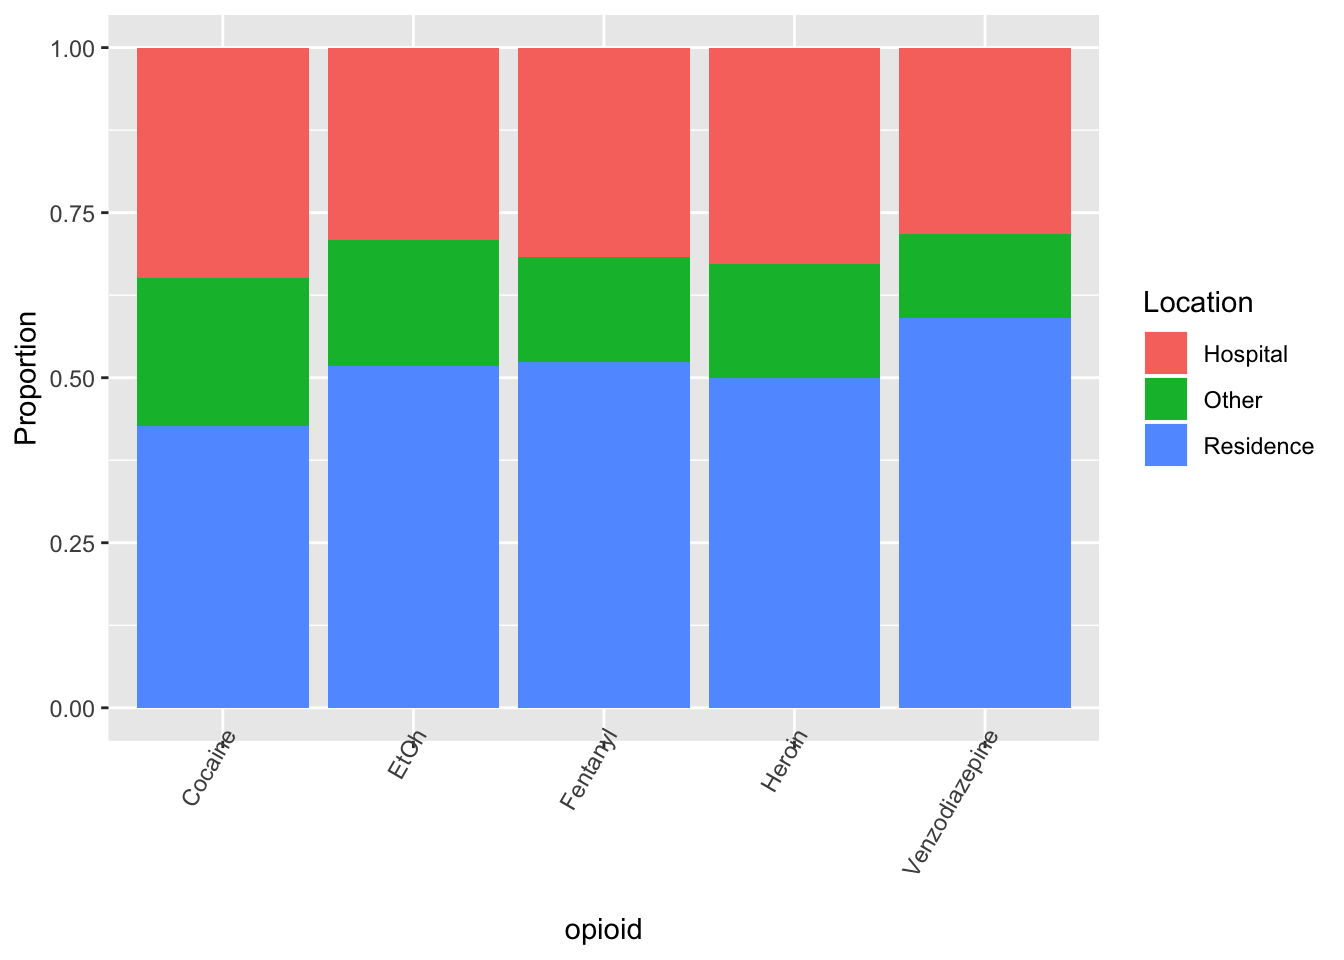
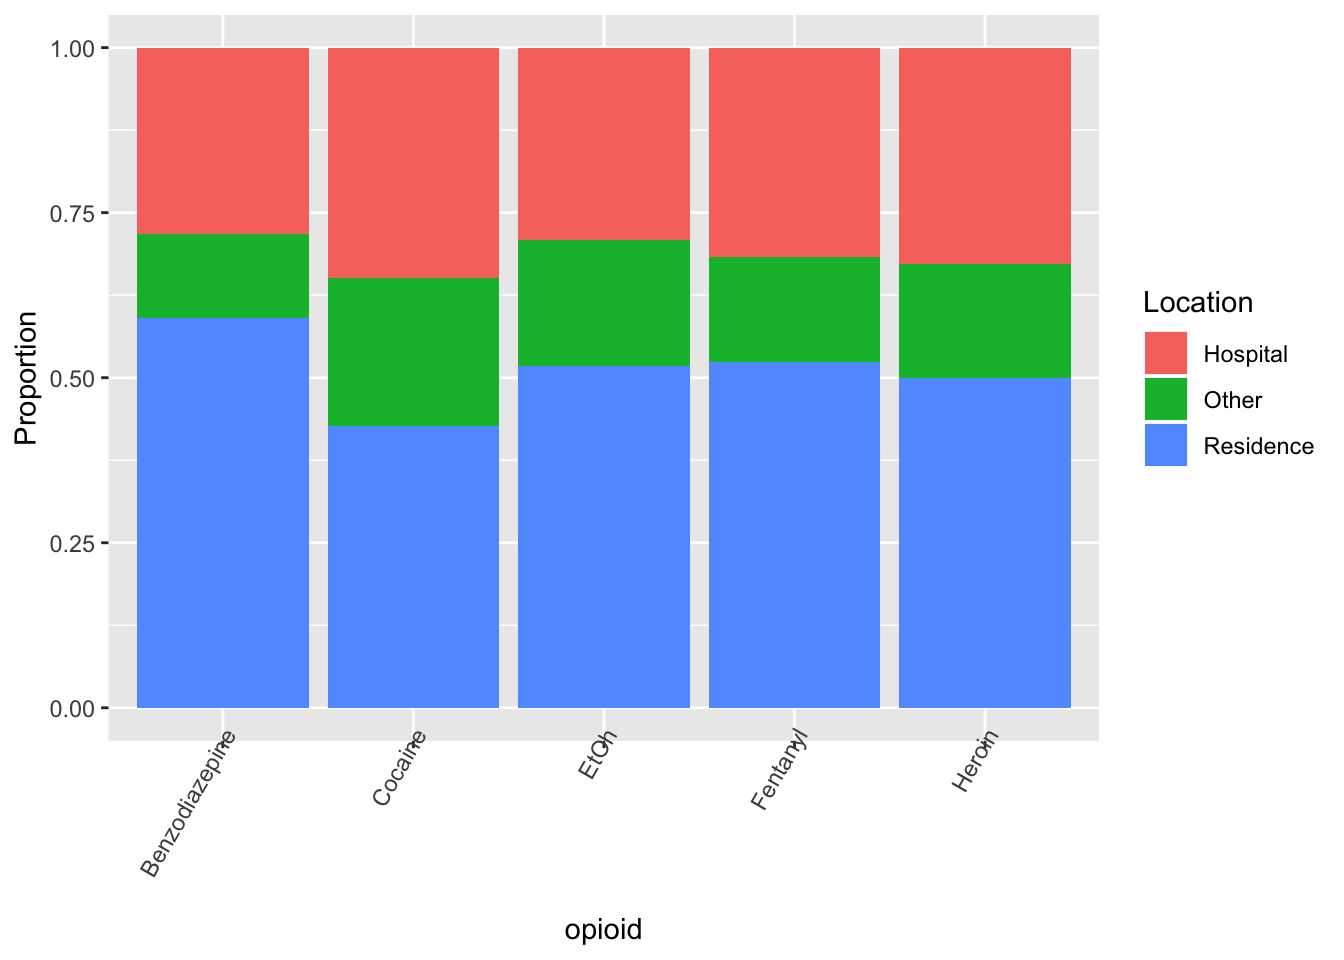
typos, remove file

diff --git a/content/post/2018-05-27-accidental-drug-related-deaths-2012-2017-in-connecticut.html b/content/post/2018-05-27-accidental-drug-related-deaths-2012-2017-in-connecticut.html
@@ -136,7 +136,7 @@ od[,29] &lt;- ifelse(od[,29] == &quot;Y&quot; | od[,29] == &#39;y&#39;, 1, 0)</c
 drugCount &lt;- drugs %&gt;%
   summarise(Heroin = sum(Heroin),
             Cocaine = sum(Cocaine),
-            nentanyl = sum(Fentanyl),
+            Fenentanyl = sum(Fentanyl),
             Oxycodone = sum(Oxycodone),
             Oxymorphone = sum(Oxymorphone),
             Etoh = sum(EtOH),
@@ -172,7 +172,7 @@ Heroin
 </tr>
 <tr>
 <td style="text-align:left;">
-nentanyl
+Fenentanyl
 </td>
 <td style="text-align:right;">
 1102
@@ -287,7 +287,7 @@ Other
   summarize(nHeroin = sum(Heroin),
             nFentanyl = sum(Fentanyl),
             nCocaine = sum(Cocaine),
-            nVenzodiazepine = sum(Benzodiazepine),
+            nBenzodiazepine = sum(Benzodiazepine),
             nEtOh = sum(EtOH)) %&gt;%
   gather(opioid, count, 2:6)
 
